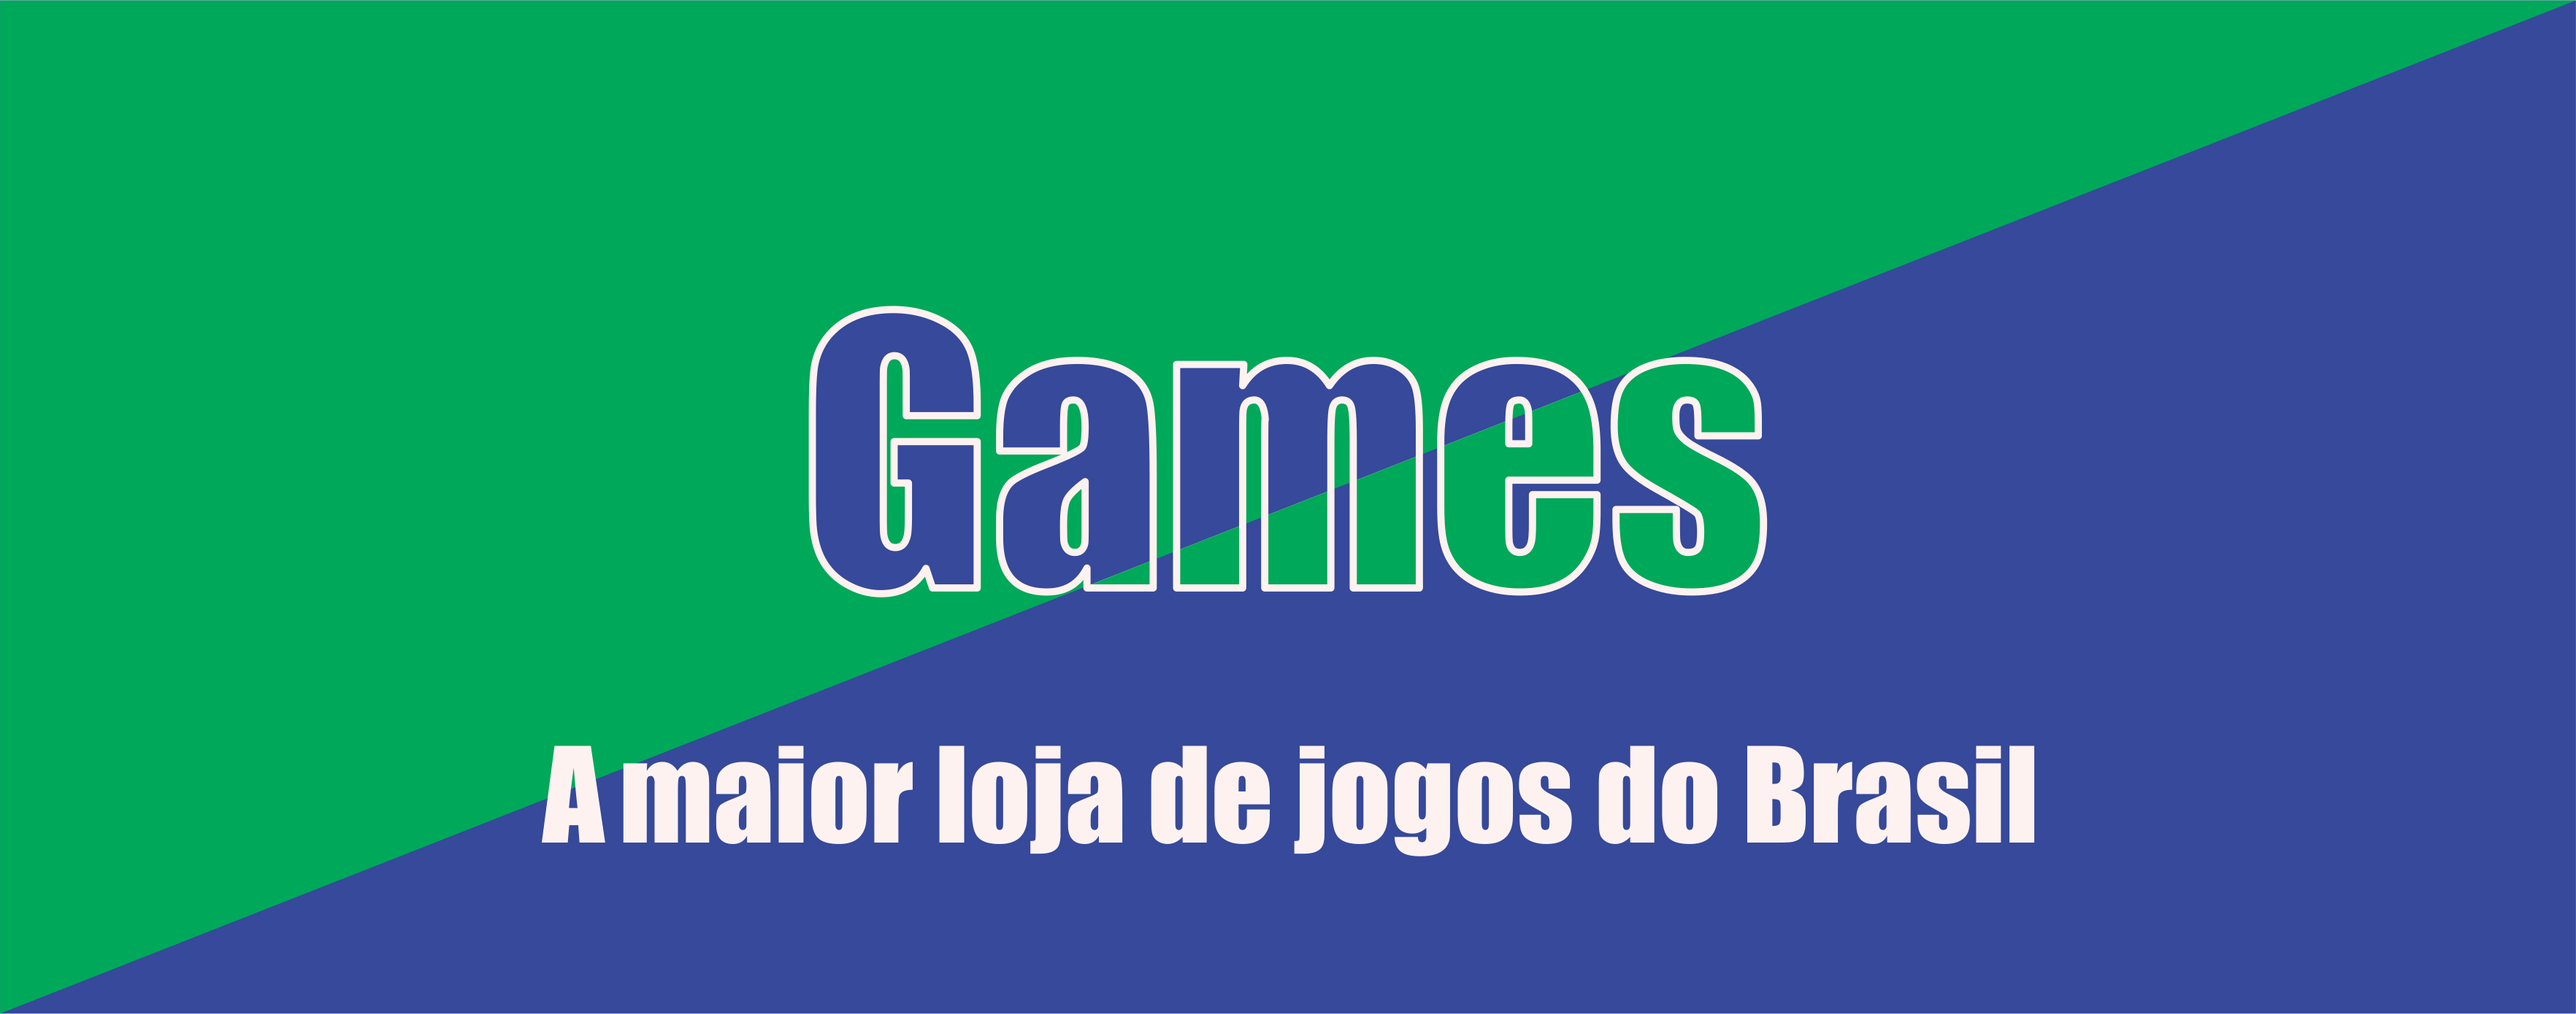
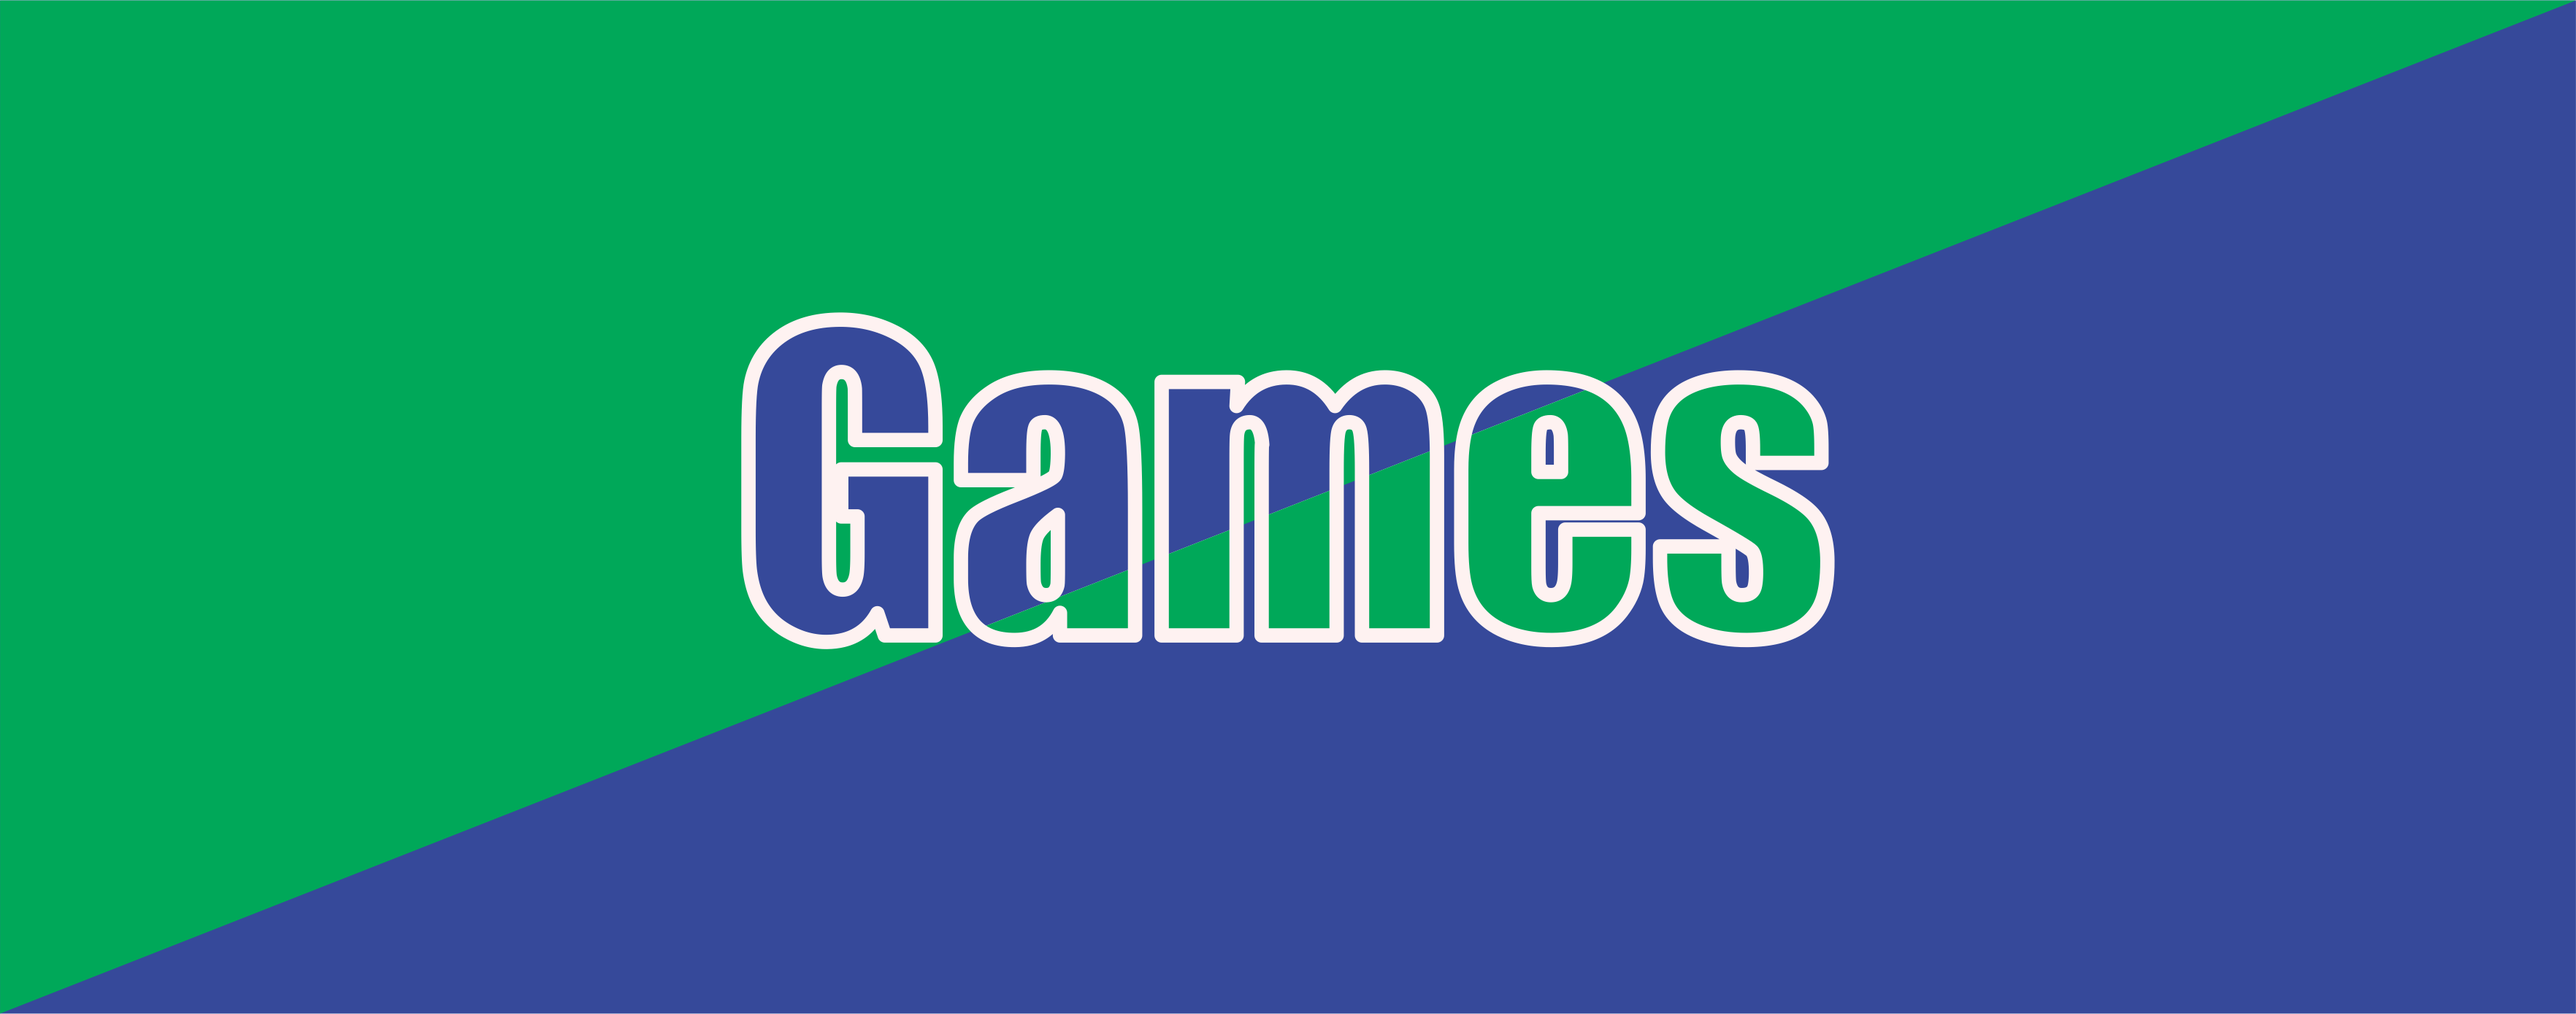
:rocket: finalizando

Changed region(s): [[0.2806, 0.2784, 0.7171, 0.6496], [0.1871, 0.7424, 0.8107, 0.8662]]

diff --git a/contato.html b/contato.html
@@ -24,23 +24,30 @@
         </nav>
     </header>
     <main>
-        <div class="banner">
-            <div class="titulo">
-                <h3>Consoles, jogos e acessórios !</h3>
-            </div>
-            <div class="paragrafo">
-                <p>Trabalhamos com consoles, jogos e acessórios para Playstastion 5 e Xbox serie S. Games a maior loja
-                    do mundo. Melhores preços e condições de toda a internet !</p>
-            </div>
+        <div class="banner" id="slider">
+            <img class="selected" src="./image/img0.png" alt="games">
+            <img src="./image/img1.png" alt="ps5">
+            <img src="./image/img2.png" alt="xbox">
         </div>
     </main>
-    <section>
-
+    <section class="formulario-sec">
+        <form class="formulario">
+            <label for="">Nome</label>
+            <input type="text" placeholder="Insira seu nome" size="100px"><br>
+            <label for="">Telefone</label>
+            <input type="text" placeholder="Insira seu telefone" size="100px"><br>
+            <label for="">Email</label>
+            <input type="text" placeholder="Insira seu e-mail" size="100px"><br>
+            <label for="">Mensagem</label>
+            <textarea rows="10" cols="98" placeholder="Insira sua mensagem !"></textarea>
+        </form>
     </section>
     <article>
         <div class="container-abaixo">
-            <div class="banner-abaixo">
-                <h1>teste</h1>
+            <div class="banner" id="slider">
+                <img class="selected" src="./image/img0.png" alt="games">
+                <img src="./image/img1.png" alt="ps5">
+                <img src="./image/img2.png" alt="xbox">
             </div>
             <div class="pops">
                 <div class="pop1">12x<br>Sem juros%</div>
@@ -85,13 +92,17 @@
 
                 <div class="col-md-4 col-sm-6 col-xs-12">
                     <ul class="social-icons">
-                        <li><a class="facebook" href="https://github.com/AmadeuAnjos"><i class="fa fa-facebook"></i></a>
+                        <li><a class="facebook" href="https://github.com/AmadeuAnjos" target="_blank"><i
+                                    class="fa fa-github"></i></a>
                         </li>
-                        <li><a class="twitter" href="https://github.com/AmadeuAnjos"><i class="fa fa-twitter"></i></a>
+                        <li><a class="twitter" href="https://github.com/AmadeuAnjos" target="_blank"><i
+                                    class="fa fa-twitter"></i></a>
                         </li>
-                        <li><a class="dribbble" href="linkedin.com/in/amadeuanjos"><i class="fa fa-dribbble"></i></a>
+                        <li><a class="dribbble" href="linkedin.com/in/amadeuanjos" target="_blank"><i
+                                    class="fa fa-dribbble"></i></a>
                         </li>
-                        <li><a class="linkedin" href="linkedin.com/in/amadeuanjos"><i class="fa fa-linkedin"></i></a>
+                        <li><a class="linkedin" href="linkedin.com/in/amadeuanjos" target="_blank"><i
+                                    class="fa fa-linkedin"></i></a>
                         </li>
                     </ul>
                 </div>

diff --git a/ps5.html b/ps5.html
@@ -24,17 +24,10 @@
         </nav>
     </header>
     <main>
-        <div class="banner">
-            <div class="banner" id="slider">
-                <img class="selected" src="./image/img0.png" alt="games">
-                <img src="./image/img1.png" alt="ps5">
-                <img src="./image/img2.png" alt="xbox">
-                <img src="./image/img0.png" alt="games">
-            </div>
-            <div class="paragrafo">
-                <p>Trabalhamos com consoles, jogos e acessórios para Playstastion 5 e Xbox serie S. Games a maior loja
-                    do mundo. Melhores preços e condições de toda a internet !</p>
-            </div>
+        <div class="banner" id="slider">
+            <img class="selected" src="./image/img0.png" alt="games">
+            <img src="./image/img1.png" alt="ps5">
+            <img src="./image/img2.png" alt="xbox">
         </div>
     </main>
     <section>
@@ -355,13 +348,17 @@
 
                 <div class="col-md-4 col-sm-6 col-xs-12">
                     <ul class="social-icons">
-                        <li><a class="facebook" href="https://github.com/AmadeuAnjos"><i class="fa fa-facebook"></i></a>
+                        <li><a class="facebook" href="https://github.com/AmadeuAnjos" target="_blank"><i
+                                    class="fa fa-github"></i></a>
                         </li>
-                        <li><a class="twitter" href="https://github.com/AmadeuAnjos"><i class="fa fa-twitter"></i></a>
+                        <li><a class="twitter" href="https://github.com/AmadeuAnjos" target="_blank"><i
+                                    class="fa fa-twitter"></i></a>
                         </li>
-                        <li><a class="dribbble" href="linkedin.com/in/amadeuanjos"><i class="fa fa-dribbble"></i></a>
+                        <li><a class="dribbble" href="linkedin.com/in/amadeuanjos" target="_blank"><i
+                                    class="fa fa-dribbble"></i></a>
                         </li>
-                        <li><a class="linkedin" href="linkedin.com/in/amadeuanjos"><i class="fa fa-linkedin"></i></a>
+                        <li><a class="linkedin" href="linkedin.com/in/amadeuanjos" target="_blank"><i
+                                    class="fa fa-linkedin"></i></a>
                         </li>
                     </ul>
                 </div>

diff --git a/xbox.html b/xbox.html
@@ -24,17 +24,10 @@
         </nav>
     </header>
     <main>
-        <div class="banner">
-            <div class="banner" id="slider">
-                <img class="selected" src="./image/img0.png" alt="games">
-                <img src="./image/img1.png" alt="ps5">
-                <img src="./image/img2.png" alt="xbox">
-                <img src="./image/img0.png" alt="games">
-            </div>
-            <div class="paragrafo">
-                <p>Trabalhamos com consoles, jogos e acessórios para Playstastion 5 e Xbox serie S. Games a maior loja
-                    do mundo. Melhores preços e condições de toda a internet !</p>
-            </div>
+        <div class="banner" id="slider">
+            <img class="selected" src="./image/img0.png" alt="games">
+            <img src="./image/img1.png" alt="ps5">
+            <img src="./image/img2.png" alt="xbox">
         </div>
     </main>
     <section>
@@ -354,13 +347,17 @@
 
                 <div class="col-md-4 col-sm-6 col-xs-12">
                     <ul class="social-icons">
-                        <li><a class="facebook" href="https://github.com/AmadeuAnjos"><i class="fa fa-facebook"></i></a>
+                        <li><a class="facebook" href="https://github.com/AmadeuAnjos" target="_blank"><i
+                                    class="fa fa-github"></i></a>
                         </li>
-                        <li><a class="twitter" href="https://github.com/AmadeuAnjos"><i class="fa fa-twitter"></i></a>
+                        <li><a class="twitter" href="https://github.com/AmadeuAnjos" target="_blank"><i
+                                    class="fa fa-twitter"></i></a>
                         </li>
-                        <li><a class="dribbble" href="linkedin.com/in/amadeuanjos"><i class="fa fa-dribbble"></i></a>
+                        <li><a class="dribbble" href="linkedin.com/in/amadeuanjos" target="_blank"><i
+                                    class="fa fa-dribbble"></i></a>
                         </li>
-                        <li><a class="linkedin" href="linkedin.com/in/amadeuanjos"><i class="fa fa-linkedin"></i></a>
+                        <li><a class="linkedin" href="linkedin.com/in/amadeuanjos" target="_blank"><i
+                                    class="fa fa-linkedin"></i></a>
                         </li>
                     </ul>
                 </div>

diff --git a/index.html b/index.html
@@ -347,13 +347,17 @@
 
                 <div class="col-md-4 col-sm-6 col-xs-12">
                     <ul class="social-icons">
-                        <li><a class="facebook" href="https://github.com/AmadeuAnjos"><i class="fa fa-facebook"></i></a>
+                        <li><a class="facebook" href="https://github.com/AmadeuAnjos" target="_blank"><i
+                                    class="fa fa-github"></i></a>
                         </li>
-                        <li><a class="twitter" href="https://github.com/AmadeuAnjos"><i class="fa fa-twitter"></i></a>
+                        <li><a class="twitter" href="https://github.com/AmadeuAnjos" target="_blank"><i
+                                    class="fa fa-twitter"></i></a>
                         </li>
-                        <li><a class="dribbble" href="linkedin.com/in/amadeuanjos"><i class="fa fa-dribbble"></i></a>
+                        <li><a class="dribbble" href="linkedin.com/in/amadeuanjos" target="_blank"><i
+                                    class="fa fa-dribbble"></i></a>
                         </li>
-                        <li><a class="linkedin" href="linkedin.com/in/amadeuanjos"><i class="fa fa-linkedin"></i></a>
+                        <li><a class="linkedin" href="linkedin.com/in/amadeuanjos" target="_blank"><i
+                                    class="fa fa-linkedin"></i></a>
                         </li>
                     </ul>
                 </div>

diff --git a/style.css b/style.css
@@ -67,10 +67,9 @@ header nav ul li a {
 
 #slider {
     width: 90%;
-    max-width: 500px;
+    max-width: 800px;
     height: 25vw;
     max-height: 150px;
-
     position: relative;
 }
 
@@ -80,7 +79,7 @@ header nav ul li a {
     width: 100%;
     height: 100%;
     object-fit: cover;
-    transition: opacity 700ms;
+    transition: opacity 900ms;
 }
 
 #slider img.selected {
@@ -404,6 +403,30 @@ button.green {
 .social-icons a.linkedin:hover,
 .social-icons a.dribbble:hover {
     background-color: var(--cor-second);
+}
+
+.formulario-sec {
+    height: 500px;
+    display: flex;
+    justify-content: center;
+    align-items: center;
+}
+
+.formulario {
+    display: flex;
+    flex-direction: column;
+    justify-content: center;
+    align-items: center;
+    width: 90%;
+
+}
+
+.formulario input {
+    height: 35px;
+}
+
+textarea {
+    resize: none;
 }
 
 @media (max-width:767px) {

diff --git a/script.js b/script.js
@@ -1,4 +1,4 @@
-let time = 4000,
+let time = 3000,
     currentImageIndex = 0,
     images = document
         .querySelectorAll("#slider img")

diff --git a/readme.md b/readme.md
@@ -17,6 +17,9 @@ Página para cadastro de cliente, podemos fazer a vizualização dos clientes ca
 - [X] Criar página xbox s.
 - [X] Criar página contato.
 - [X] Criar links para icones.
+- [X] Criar links para icones.
+- [X] Criar banner superior.
+- [X] Criar banner inferior.
 
 
 ## Extras
